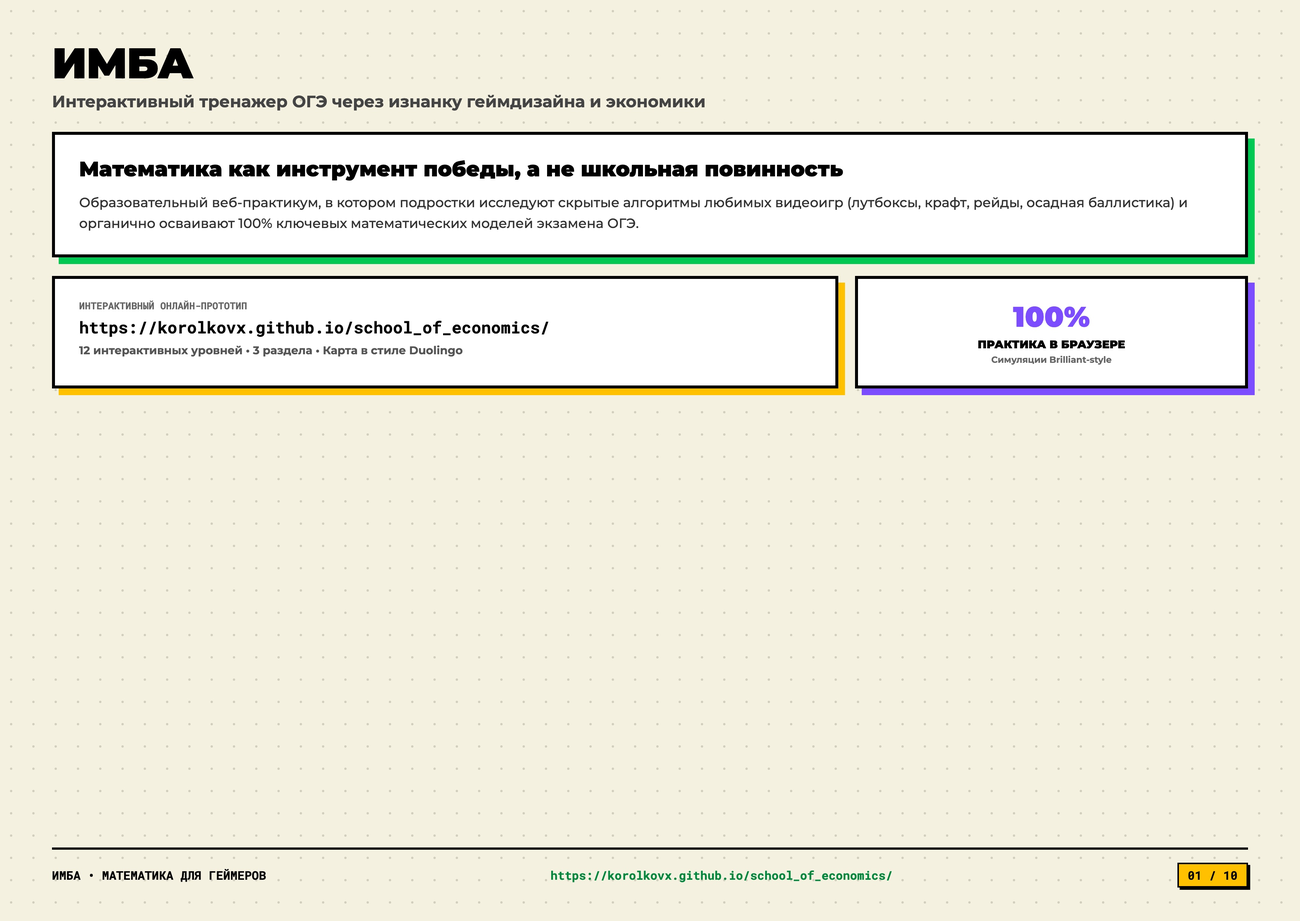
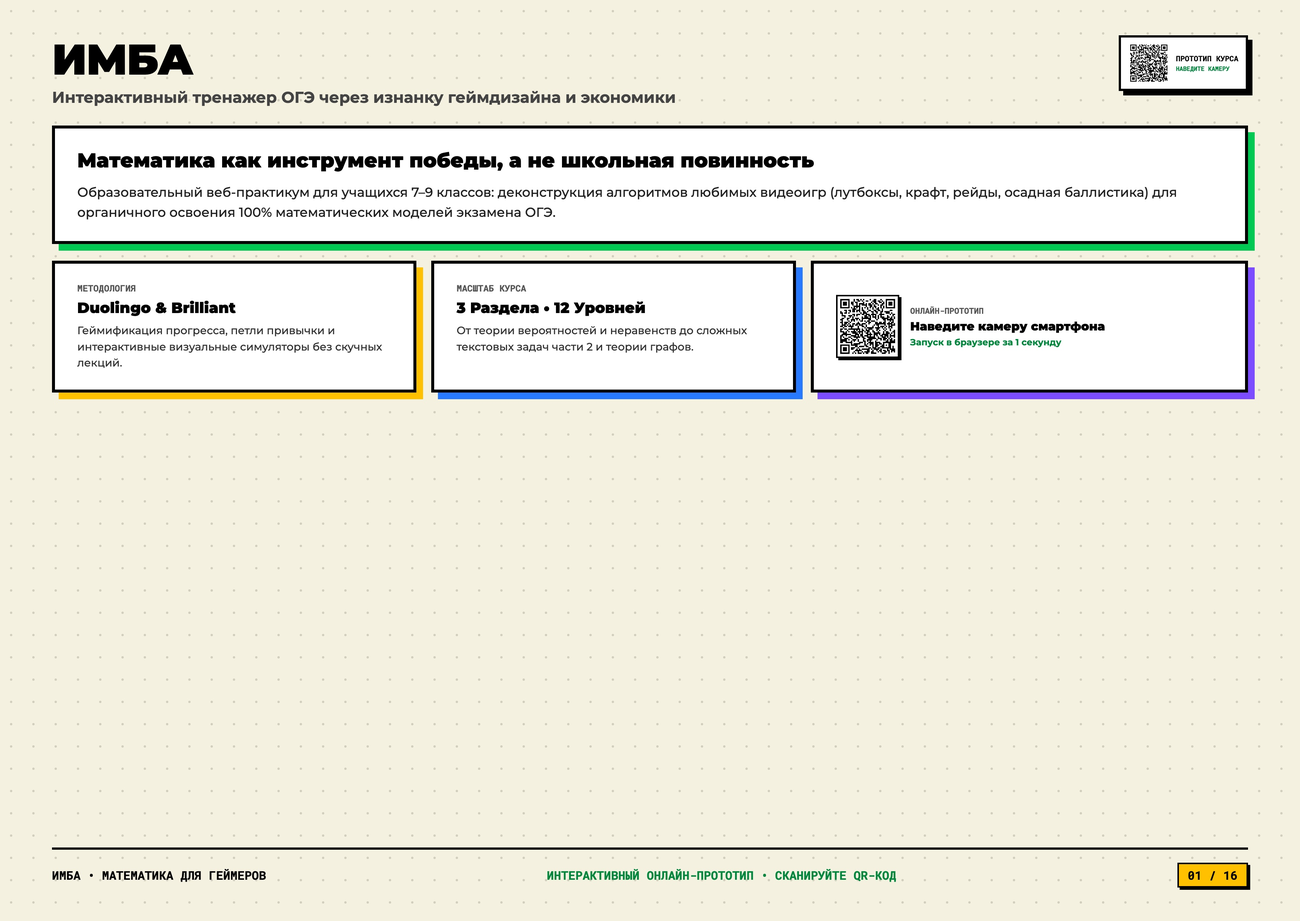
feat: complete 16-slide high-res portfolio spreads with Neobrutalist QR codes and speaker guide

Changed region(s): [[0.0311, 0.031, 0.9654, 0.4347], [0.4049, 0.9315, 0.6851, 0.9625]]

diff --git a/SPEAKER_GUIDE.md b/SPEAKER_GUIDE.md
@@ -1,0 +1,195 @@
+# ИМБА: ТЕЗИСНЫЙ ПЛАН И ШПАРГАЛКА К ЗАЩИТЕ ПРОЕКТА
+*Структура выступления по 16 слайдам, ключевые артефакты и точные данные для формы portfolio.hse.ru*
+
+---
+
+## 1. ТОЧНЫЕ ДАННЫЕ ДЛЯ ЗАПОЛНЕНИЯ ФОРМЫ (PORTFOLIO.HSE.RU)
+
+### Поле «Название» (лимит 70 символов):
+> **ИМБА: Интерактивный тренажер ОГЭ через экономику и игры** *(58 символов)*  
+> *Альтернатива:* **ИМБА — математика и экономика для геймеров (ОГЭ)** *(51 символ)*
+
+### Поле «Описание проекта» (лимит строго от 200 до 400 символов):
+> «ИМБА — образовательный веб-тренажер для подготовки к ОГЭ по математике через разбор скрытых алгоритмов видеоигр (лутбоксы, крафт, рейды). Проект выполнен в эстетике нео-брутализма с контрастной функциональной палитрой. Методология опирается на референсы Duolingo (геймификация и путь прогресса) и Brilliant (интерактивные симуляции). Включает 12 интерактивных уровней и веб-прототип.»  
+> *(Длина: ровно 388 символов с пробелами — строго попадает в диапазон 200–400 символов).*
+
+### Поле «Выберите теги»:
+* Образовательный дизайн
+* EdTech
+* UI/UX
+* Геймификация
+* Интерактивный дизайн
+* Необрутализм
+
+### Файлы для загрузки в форму:
+* **Обложка (1:1.41, JPEG):** `Обложка_2480x3500.jpg` (2480 × 3500 px)
+* **Файлы разворотов проекта (1.41:1, JPEG):** 16 файлов из папки `Развороты_для_портфолио_3500x2480` (3500 × 2480 px)
+
+---
+
+## 2. ТЕЗИСНЫЙ ПЛАН ЗАЩИТЫ ПО 16 СЛАЙДАМ
+
+### СЛАЙД 01: Титульный слайд (ИМБА • Математика для геймеров)
+* **Главный тезис:** Математика как легальный чит-код и инструмент победы в играх, а не школьная повинность.
+* **Ключевые тезисы:**
+  * Веб-практикум для 7–9 классов: деконструкция алгоритмов популярных игр (лутбоксы, крафт, рейды, баллистика) для органичной подготовки к ОГЭ.
+  * Референсы: Duolingo (геймификация и трекинг) и Brilliant (интерактивные визуальные симуляции).
+  * Масштаб: 3 раздела, 12 интерактивных модулей, 100% практический формат в браузере.
+* **Что показывать / Артефакт:** В правом верхнем углу расположен QR-код — предложить комиссии навести камеру смартфона, чтобы открыть живой симулятор во время доклада.
+
+---
+
+### СЛАЙД 02: Проблематика и контекст
+* **Главный тезис:** Школьный тупик и парадокс геймера: отторжение абстрактной зубрежки при колоссальной вовлеченности в видеоигры.
+* **Ключевые тезисы:**
+  * Школьный стресс: 73% девятиклассников боятся завалить ОГЭ; сборники тестов оторваны от реальности.
+  * Парадокс геймера: подросток проводит 3+ часа в день в играх, виртуозно считает статы оружия, урон и тайминги, но ненавидит школьные уравнения.
+  * Финансовый риск: подростки сливают карманные деньги в лутбоксах и рулетках, не осознавая закон больших чисел и матожидание.
+* **Что показывать / Артефакт:** Инфографика трех узловых проблем (стресс, парадокс вовлеченности, финансовая уязвимость).
+
+---
+
+### СЛАЙД 03: Референсы и методология
+* **Главный тезис:** Синергия лучших мировых практик Duolingo и Brilliant в нео-бруталистской эстетике.
+* **Ключевые тезисы:**
+  * Референс Duolingo: изометрическая карта прогресса, последовательное открытие уровней замками, раздельные валюты XP и Кристаллы.
+  * Референс Brilliant: отказ от пассивных видеолекций в пользу прямого манипулирования интерактивными объектами и вывода правил своими руками.
+  * Стилистика Neobrutalism: высокий контраст, черные рамки 8px, жесткие тени 18px, функциональная цветовая кодировка разделов без визуального шума.
+* **Что показывать / Артефакт:** Карточки методологического переноса механик Duolingo и Brilliant в образовательный продукт.
+
+---
+
+### СЛАЙД 04: Целевая аудитория и Касдев
+* **Главный тезис:** 25+ глубинных интервью с подростками и родителями подтвердили гипотезу превосходства.
+* **Ключевые тезисы:**
+  * Портрет геймера (13–15 лет): играют в CS2, Brawl Stars, Genshin Impact; хотят побеждать; цитата: *«Мне лень зубрить сборники, но если формула поможет понять дроп ножа — я выучу ее за 5 минут»*.
+  * Родители: хотят гарантированной сдачи ОГЭ и защиты семейного бюджета от сливов на донаты.
+  * Метрика пилота: **9 из 10 участников** решили экзаменационную задачу ОГЭ на вероятность с 1-й попытки после 12-минутной интерактивной сессии.
+* **Что показывать / Артефакт:** Результаты пилотного тестирования фокус-группы (90% успешность решения ОГЭ).
+
+---
+
+### СЛАЙД 05: Архитектура курса (Общая карта)
+* **Главный тезис:** 12 интерактивных уровней и 3 раздела со 100% маппингом на кодификатор тем экзамена ОГЭ.
+* **Ключевые тезисы:**
+  * Раздел 1 (Микроэкономика): лутбоксы, крафт, алхимия, теория игр (ОГЭ №10, №13, №21, №11).
+  * Раздел 2 (Макроэкономика): аукционы, осадные параболы, формула Пика, снайперские секторы (ОГЭ №12, №11, №18, №15).
+  * Раздел 3 (Физика меты): движение по воде, рейдовый DPS, баланс патчей, алгоритм Дейкстры (ОГЭ №21, №19, №4).
+* **Что показывать / Артефакт:** Структурная карта курса с точным маппингом на номера заданий экзамена ОГЭ.
+
+---
+
+### СЛАЙД 06: Раздел 1: Микроэкономика и Рандом
+* **Главный тезис:** Деконструкция случайных событий, распределение ресурсов и матричные игры.
+* **Ключевые тезисы:**
+  * Модуль 01 (Взлом рандома): классическая вероятность P = m/n, матожидание, закон больших чисел на 1 000 открытиях.
+  * Модуль 02 (Крафт): системы линейных неравенств с ограничениями инвентаря и времени фарма.
+  * Модуль 03 (Зелья): алхимия в RPG — текстовые задачи 2 части экзамена на концентрацию, смеси и сплавы (№21).
+  * Модуль 04 (Теория игр): матрицы выплат и равновесие Нэша при выборе тактики против соперника.
+* **Что показывать / Артефакт:** Секретный сундук 1 со скретч-слоем и алгоритмическим чит-кодом к задаче №10.
+
+---
+
+### СЛАЙД 07: Раздел 2: Макроэкономика и Базы
+* **Главный тезис:** Экономика виртуальных аукционов, квадратичные траектории и геометрия баз.
+* **Ключевые тезисы:**
+  * Модуль 05 (Биржа лута): сложный процент, комиссии рынка и инфляция через геометрическую прогрессию (№12).
+  * Модуль 06 (Баллистика): квадратичные функции катапульты: координаты вершины параболы и точка попадания (№11).
+  * Модуль 07 (Захват базы): формула Пика S = В + Г/2 - 1 для мгновенного вычисления площади полигонов на сетке (№18).
+  * Модуль 08 (Снайпер): тригонометрия прямоугольного треугольника: тангенс и синус угла обзора (№15).
+* **Что показывать / Артефакт:** Секретный сундук 2 с интерактивным гайдом по формуле Пика.
+
+---
+
+### СЛАЙД 08: Раздел 3: Физика меты и Рейды
+* **Главный тезис:** Командная производительность, кинематика спидрана и алгоритмические графы.
+* **Ключевые тезисы:**
+  * Модуль 09 (Погоня на реке): движение по течению и против — дробно-рациональные уравнения части 2 (№21).
+  * Модуль 10 (Рейдовый DPS): совместная работа команды — сложение индивидуальных мощностей урона (№21).
+  * Модуль 11 (Баланс меты): статистика патчей — медиана, среднее, размах выборки (№19).
+  * Модуль 12 (Рейд по графам): алгоритм Дейкстры для поиска кратчайшего пути по взвешенному графу (№4).
+* **Что показывать / Артефакт:** Финальный скретч-сундук 3 и Итоговый Диплом Магистра игровой экономики.
+
+---
+
+### СЛАЙД 09: Педагогический цикл урока
+* **Главный тезис:** 4-шаговый сценарий каждого модуля: от игрового азарта к безошибочному решению ОГЭ.
+* **Ключевые тезисы:**
+  * Шаг 1 (Опыт / Дилемма): провокационный кейс: «Слил 10 кейсов без ножа. В чем обман?» Без заумной теории.
+  * Шаг 2 (Стекло / Модель): разбор скрытого алгоритма разработчиков: формула вероятности и матожидание.
+  * Шаг 3 (Действие / Симулятор): интерактивный ползунок шанса и симуляция 1 000 дропов с динамическим графиком.
+  * Шаг 4 (Закрепление / ОГЭ): решение реальной задачи экзамена без подсказок, автоматическая проверка и награда XP/Gems.
+* **Что показывать / Артефакт:** Схема 4 тактов урока (Опыт → Формула → Симулятор → ОГЭ).
+
+---
+
+### СЛАЙД 10: Артефакт студента (Пример выполненного задания)
+* **Главный тезис:** Практическое доказательство эффективности: расчет лутбокса и 100% решение задачи ОГЭ.
+* **Ключевые тезисы:**
+  * Исследовательский расчет: кейс за 100 монет (90% по 10, 9% по 300, 1% по 2000) дает E(X) = 56 монет. ROI = -44%.
+  * Вывод ученика: осознанное понимание неминуемого банкротства при игре в лутбоксы на длинной дистанции.
+  * Экзаменационный тест: безошибочное решение задачи ОГЭ №10 (3 выигрышных из 20, ответ P = 0,15) с первой попытки.
+* **Что показывать / Артефакт:** Студенческий артефакт: аналитический расчет матожидания и скриншот решенного теста ОГЭ.
+
+---
+
+### СЛАЙД 11: Система мотивации и геймификации
+* **Главный тезис:** Удержание внимания через петли обратной связи и тактильный дофамин.
+* **Ключевые тезисы:**
+  * Раздельный баланс: XP за шаги повышает ранг; Кристаллы начисляются только за безошибочные решения тестов ОГЭ.
+  * Навигация и прогресс: изометрический трек с замками, индикатор оставшихся шагов («Шаг 2 из 4») и легкий возврат на карту.
+  * Скретч-слой и Диплом: интерактивное стирание фольги сундука курсором или пальцем на Canvas.
+* **Что показывать / Артефакт:** Интерфейсные элементы: карта Duolingo, скретч-полотно на HTML5 Canvas, плашки баланса.
+
+---
+
+### СЛАЙД 12: Юнит-экономика продукта
+* **Главный тезис:** Высокомаржинальная бизнес-модель цифрового EdTech-решения.
+* **Ключевые тезисы:**
+  * Ключевые метрики: цена полного курса — 2 990 ₽; CAC — 600 ₽ через вирусные Shorts/Reels.
+  * Окупаемость: точка безубыточности (Break-Even) — всего 45 продаж на весь MVP.
+  * Маржинальность: >80% благодаря отсутствию затрат на почасовую оплату преподавателей.
+  * Масштаб: рынок РФ — 1,4 млн выпускников 9-х классов каждый год.
+* **Что показывать / Артефакт:** Финансовая матрица: Unit-экономика, CAC, LTV и порог безубыточности.
+
+---
+
+### СЛАЙД 13: Маркетинговая воронка продвижения
+* **Главный тезис:** Органический трафик через разоблачение лудомании в играх и открытый демо-урок.
+* **Ключевые тезисы:**
+  * Этап 1 (Охват): вирусные ролики в Shorts/Reels: «Почему ты никогда не выбьешь нож в CS2».
+  * Этап 2 (Демо-урок): бесплатный Уровень 1 на GitHub Pages без регистрации: 10 минут практики и победный дофамин.
+  * Этап 3 (Сообщество): Telegram-канал: мемы, патчи, математические лайфхаки и стримы.
+  * Этап 4 (Конверсия): покупка полного курса за 2 990 ₽ с высокой конверсией из демо-модуля.
+* **Что показывать / Артефакт:** Схема 4-этапной воронки конверсии от вирусного ролика к покупке полного доступа.
+
+---
+
+### СЛАЙД 14: Технологический стек и архитектура
+* **Главный тезис:** Автономное веб-приложение: мгновенная скорость загрузки и 100% адаптивность.
+* **Ключевые тезисы:**
+  * Web-First: HTML5, CSS3, SVG, Canvas, ES6 JavaScript — ноль тяжелых сторонних фреймворков.
+  * Скорость: загрузка страницы за 0,2 секунды, плавная работа на любых смартфонах.
+  * Адаптивность: 0px горизонтального скролла на экранах от 375px (смартфоны) до 4K.
+  * Автономность: сохранение прогресса в localStorage браузера; бесплатный статический хостинг GitHub Pages.
+* **Что показывать / Артефакт:** Схема архитектуры без бэкенда и кроссплатформенной адаптивности.
+
+---
+
+### СЛАЙД 15: Дорожная карта проекта
+* **Главный тезис:** Четкий таймлайн от исследований и пилота к коммерческому масштабированию.
+* **Ключевые тезисы:**
+  * Сентябрь 2026: 25+ интервью, методология, сопоставление с кодификатором ОГЭ, дизайн-система.
+  * Октябрь 2026: разработка 12 модулей MVP, успешное тестирование (90% сдали тест), релиз на GitHub Pages.
+  * Ноябрь 2026+: запуск платных продаж, подготовка треков профильного ЕГЭ и интеграция со школами.
+* **Что показывать / Артефакт:** Таймлайн дорожной карты: 3 фазы развития образовательного продукта.
+
+---
+
+### СЛАЙД 16: Интерактивный прототип (Финальный слайд)
+* **Главный тезис:** Продукт полностью готов к работе и демонстрации прямо сейчас.
+* **Ключевые тезисы:**
+  * Что доступно: все 12 интерактивных уровней, карта Duolingo, симуляторы Brilliant, сундуки и тесты ОГЭ.
+  * Тестирование: валидировано на iOS (Safari), Android (Chrome) и десктопах.
+  * Призыв к комиссии: предложить отсканировать большой центральный QR-код на экране и лично пройти симуляцию.
+* **Что показывать / Артефакт:** Центральный QR-код высокого разрешения для мгновенного перехода в рабочий симулятор.
